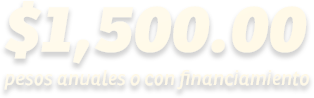
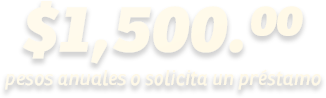
Nuevo cambio

diff --git a/cajamitras/index.html b/cajamitras/index.html
@@ -152,9 +152,9 @@ j=d.createElement(s),dl=l!='dataLayer'?'&l='+l:'';j.async=true;j.src=
 	}
 	#txt_boton {
 		position: absolute;
-		width: 314px;
+		width: 326px;
 		height: 98px;
-		left: 339px;
+		left: 334px;
 		top: 494px;
 		overflow: visible;
 	}
@@ -328,7 +328,7 @@ j=d.createElement(s),dl=l!='dataLayer'?'&l='+l:'';j.async=true;j.src=
 		position: absolute;
 		width: 246px;
 		height: 76px;
-		left: 45px;
+		left: 50px;
 		top: 346px;
 		overflow: visible;
 	}
